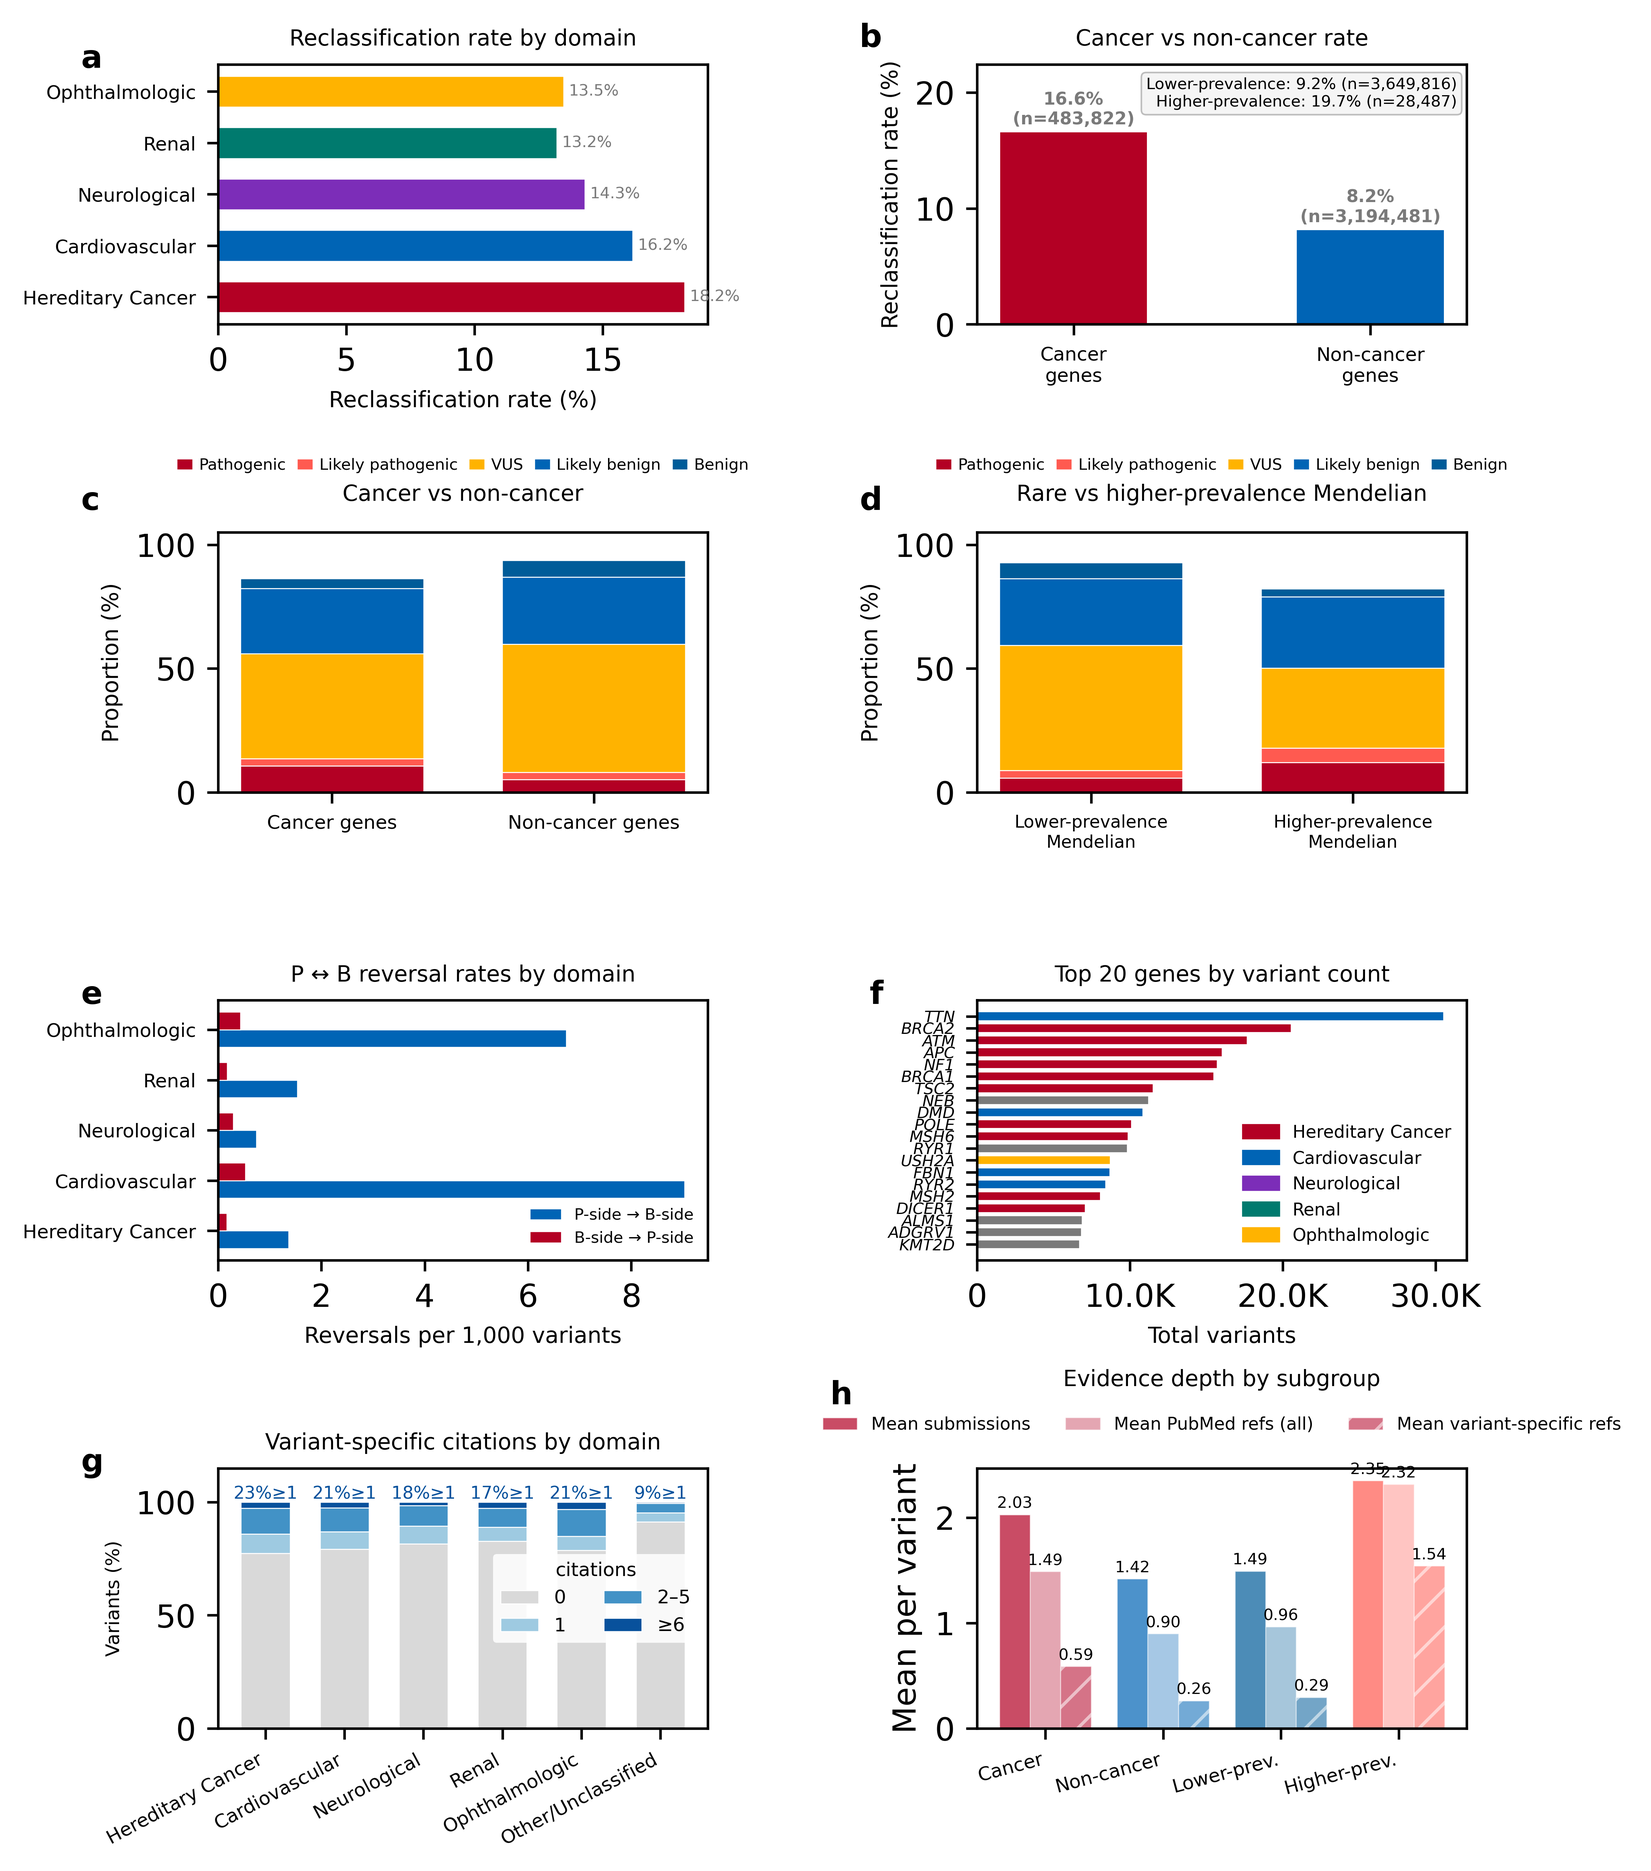
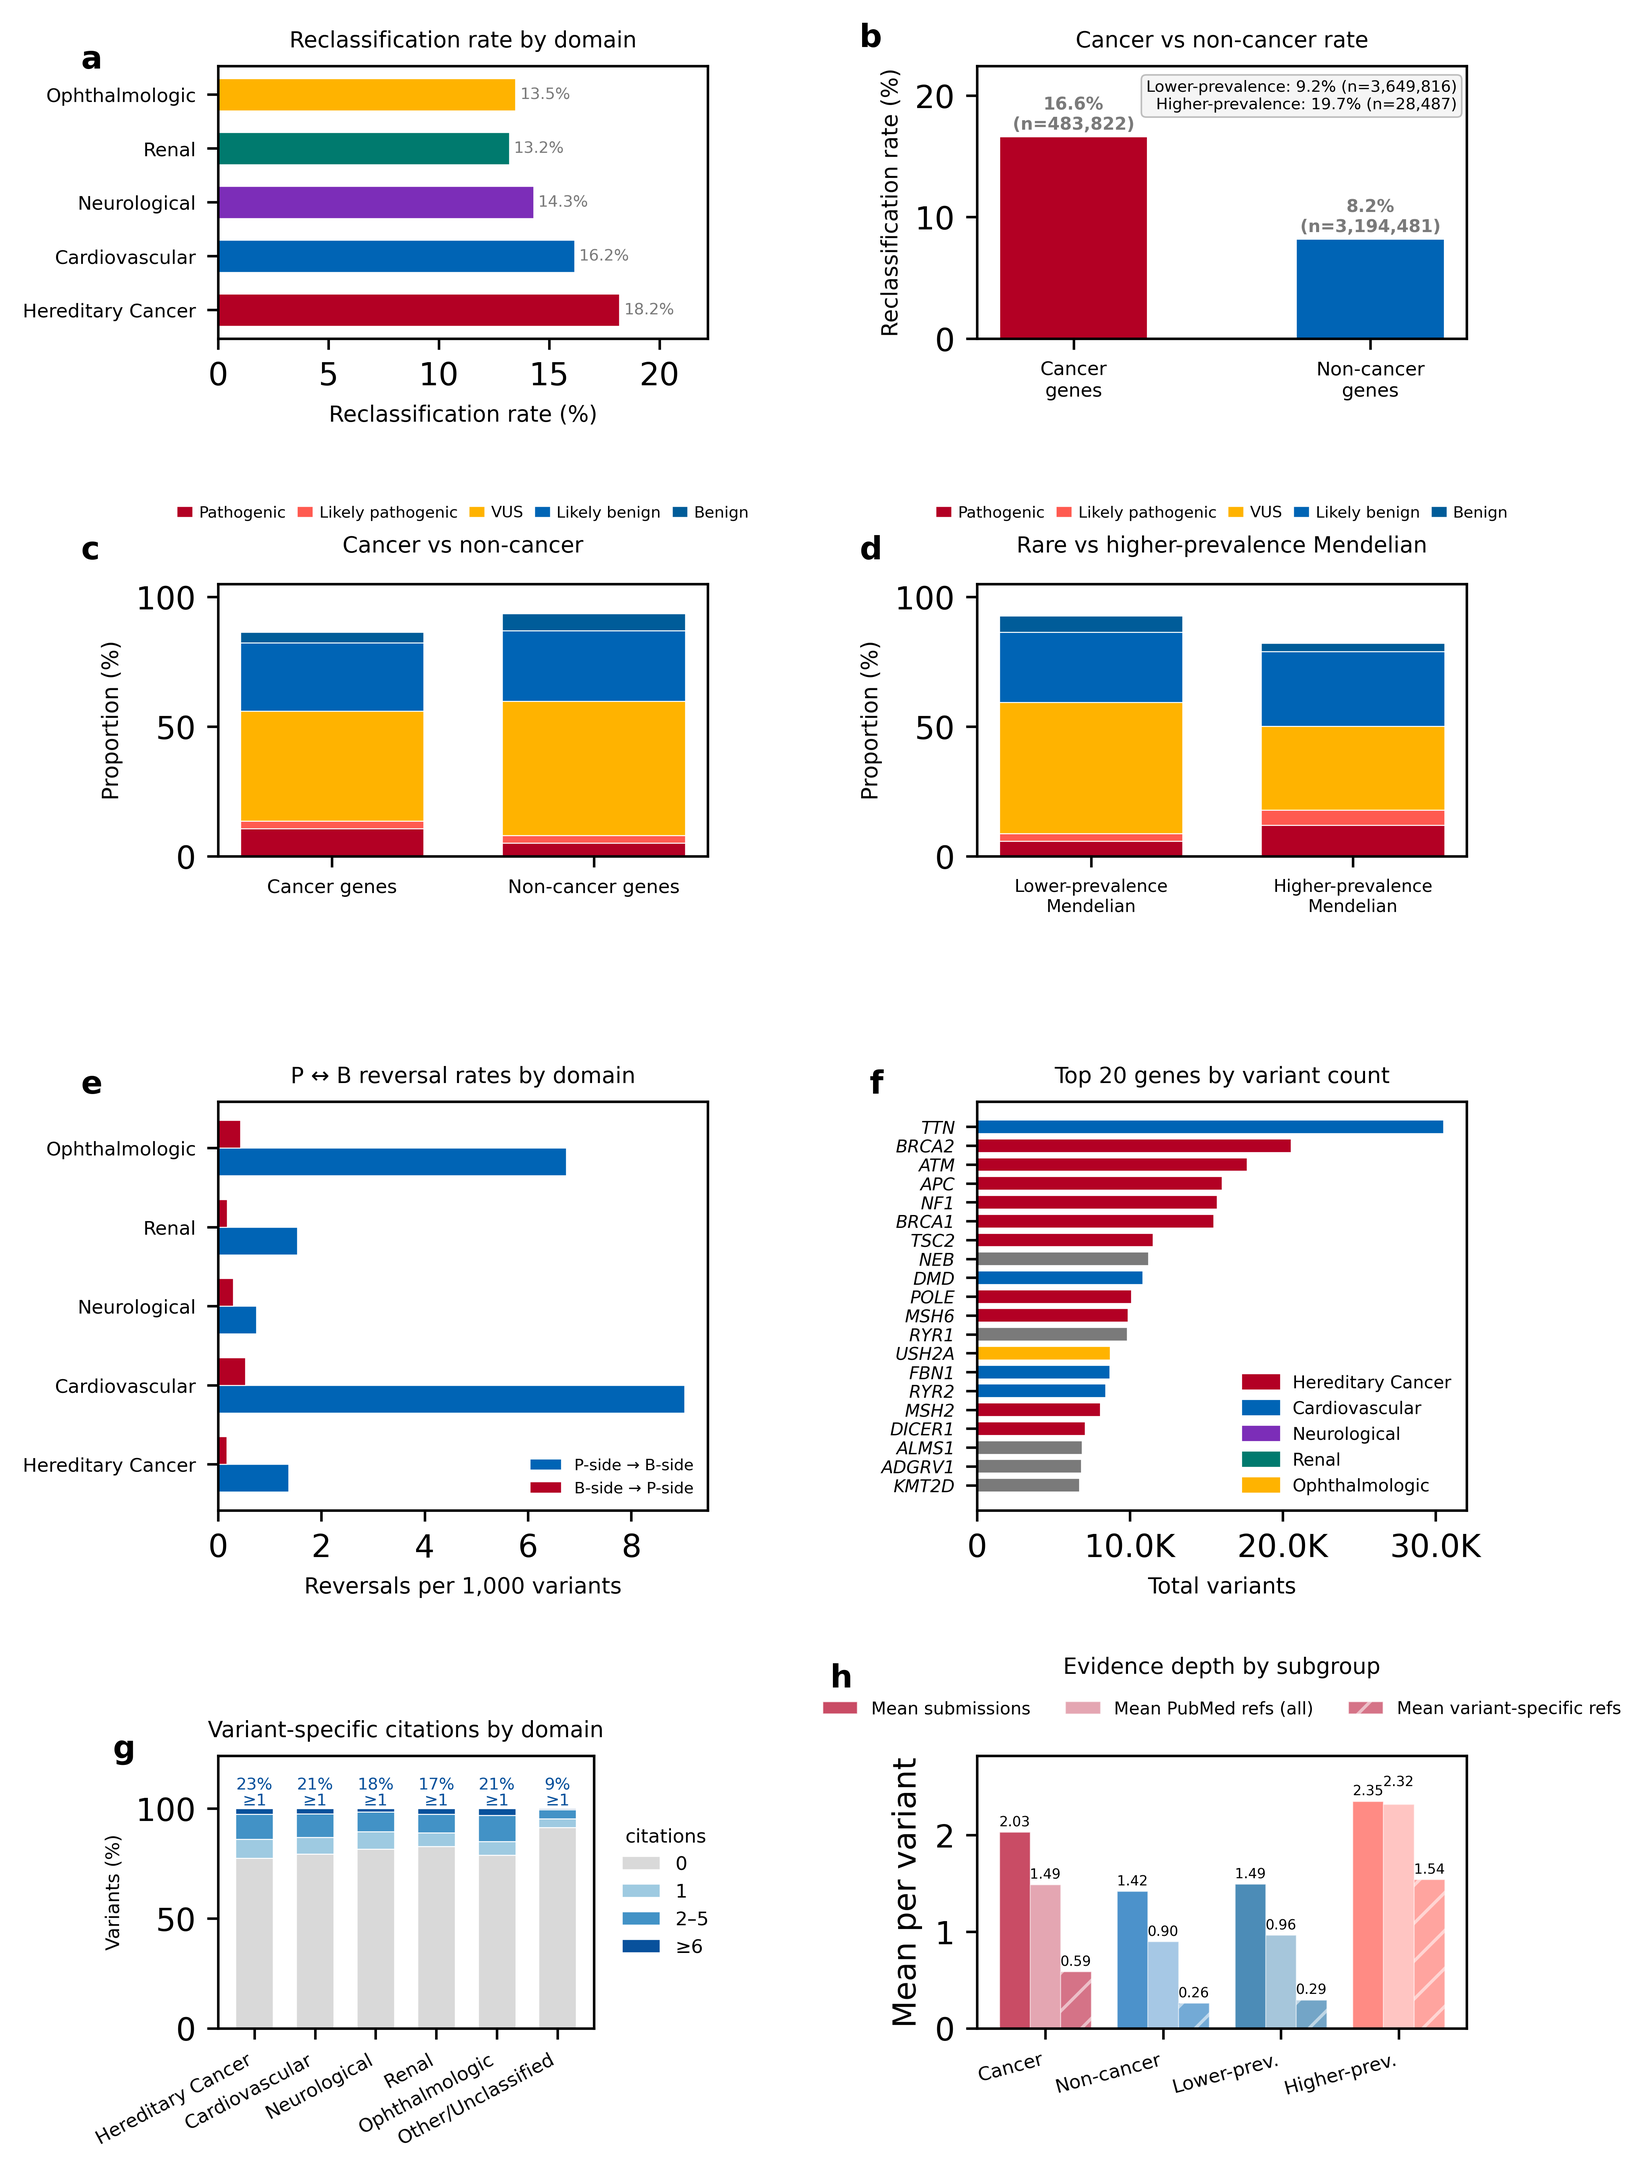
v1.1.1: final figure layout (Figures 4, 6, 9, 11, 13; Additional file 1 Fig. S3); analyses and data unchanged

diff --git a/scripts/clinvar_visualizations.py b/scripts/clinvar_visualizations.py
@@ -899,7 +899,7 @@ def figure4(summary_agg, stats, out):
     ax.set_yticks(y_pos)
     ax.set_yticklabels(fields, fontsize=6)
     ax.set_xlabel("Completeness (%)")
-    ax.set_xlim(0, 105)
+    ax.set_xlim(0, 124)
     ax.set_title("Field-level data completeness")
     for i, v in enumerate(vals):
         ax.text(v + 0.8, i, f"{v:.1f}%", va="center", fontsize=5, color=NAT["grey"])
@@ -923,7 +923,7 @@ def figure4(summary_agg, stats, out):
                edgecolor="white", linewidth=0.3, label="All listed references")
         ax.bar(x + bw / 2, filt_pct, bw, color=NAT["blue"],
                edgecolor="white", linewidth=0.3,
-               label="Variant-specific (method papers excluded)")
+               label="Variant-specific")
         ax.set_xticks(x)
         ax.set_xticklabels(pmid_order, fontsize=6)
         ax.set_xlabel("PubMed citations per variant")
@@ -932,6 +932,8 @@ def figure4(summary_agg, stats, out):
         for xi, pct in zip(x, filt_pct):
             ax.text(xi + bw / 2, pct + 1.0, f"{pct:.1f}", ha="center",
                     fontsize=5.0, color=NAT["blue"])
+        ax.set_ylim(0, max(max(pmid_pct), max(filt_pct)) * 1.17)
+        ax.legend(fontsize=6.0, frameon=False, loc="upper right")
         ax.legend(fontsize=6.0, frameon=False, loc="upper right")
     else:
         bar_cols_pmid = [NAT["grey"]] + [NAT["blue"]] * 5
@@ -944,7 +946,7 @@ def figure4(summary_agg, stats, out):
         ax.set_title("Literature evidence distribution")
         for i, (v, pct) in enumerate(zip(pmid_vals, pmid_pct)):
             ax.text(i, pct + 0.5, fmt(v), ha="center", fontsize=4.5, color=NAT["grey"])
-    panel_label(ax, "b")
+    panel_label(ax, "b", x=-0.22, y=1.13)
 
     # ── (c) New variants per year ────────────────────────────────────
     ax = axes[1, 0]
@@ -963,7 +965,7 @@ def figure4(summary_agg, stats, out):
     ax.set_ylabel("New variants (millions)")
     ax.set_xlabel("Year of first ClinVar appearance")
     ax.set_title("Variant accession timeline")
-    panel_label(ax, "c")
+    panel_label(ax, "c", x=-0.22, y=1.17)
 
     # ── (d) dbSNP coverage by entry cohort ───────────────────────────
     ax = axes[1, 1]
@@ -981,11 +983,11 @@ def figure4(summary_agg, stats, out):
            edgecolor="white", linewidth=0.3)
     ax.set_xticks(range(len(years)))
     ax.set_xticklabels(years, rotation=45, ha="right", fontsize=6.5)
-    ax.set_ylabel("Variants with dbSNP ID (%)")
+    ax.set_ylabel("Variants with dbSNP ID (%)", fontsize=8)
     ax.set_xlabel("Year of first ClinVar appearance")
     ax.set_title("dbSNP cross-reference coverage")
     ax.set_ylim(0, 105)
-    panel_label(ax, "d")
+    panel_label(ax, "d", x=-0.22, y=1.17)
 
     _save(fig, out, "figure4_evidence_linkage_completeness")
 
@@ -1022,8 +1024,8 @@ def figure5(xml_data, out, hist_agg=None):
         ax.axvline(vcv_start, color=NAT["grey"], linestyle="--", linewidth=0.5, alpha=0.6)
         ax.set_ylim(ylim)
 
-    fig = plt.figure(figsize=(7.08, 7.5))
-    gs = GridSpec(3, 2, figure=fig, hspace=0.55, wspace=0.42)
+    fig = plt.figure(figsize=(7.08, 8.4))
+    gs = GridSpec(3, 2, figure=fig, hspace=0.78, wspace=0.42)
 
     # ── (a) Format era timeline + variant count ───────────────────────
     ax = fig.add_subplot(gs[0, 0])
@@ -1045,10 +1047,11 @@ def figure5(xml_data, out, hist_agg=None):
 
     ax.axvline(vcv_start, color="black", linestyle=":", linewidth=0.5, alpha=0.5)
     ylim = ax.get_ylim()
-    ax.text(2016.0, ylim[1] * 0.90, "RCV\n(submission-\ncentric)",
-            fontsize=5.5, color=NAT["blue"], ha="center", fontweight="bold")
-    ax.text(2022.5, ylim[1] * 0.90, "VCV\n(variant-\ncentric)",
-            fontsize=5.5, color=NAT["yellow"], ha="center", fontweight="bold")
+    ax.set_ylim(0, ylim[1] * 1.34)
+    ax.text(2016.0, ylim[1] * 1.29, "RCV\n(submission-\ncentric)",
+            fontsize=5.5, color=NAT["blue"], ha="center", va="top", fontweight="bold")
+    ax.text(2022.5, ylim[1] * 1.29, "VCV\n(variant-\ncentric)",
+            fontsize=5.5, color=NAT["yellow"], ha="center", va="top", fontweight="bold")
 
     legend_patches = [mpatches.Patch(color=NAT["blue"], label="RCV format"),
                       mpatches.Patch(color=NAT["yellow"], label="VCV format")]
@@ -1169,7 +1172,7 @@ def figure5(xml_data, out, hist_agg=None):
                         ha="right", fontsize=4.5)
     ax.set_xlabel("Release", fontsize=6)
     ax.set_title("Field availability (grouped)")
-    panel_label(ax, "c")
+    panel_label(ax, "c", x=-0.40, y=1.12)
 
     # ── (d) Element lifecycle ─────────────────────────────────────────
     ax = fig.add_subplot(gs[1, 1])
@@ -1186,8 +1189,8 @@ def figure5(xml_data, out, hist_agg=None):
     ax.set_ylabel("Element count")
     ax.set_xlabel("Year")
     ax.set_title("Element lifecycle")
-    ax.legend(fontsize=5, loc="lower left",
-              frameon=True, facecolor="white", edgecolor="none", framealpha=0.85)
+    ax.legend(fontsize=5.5, loc="upper center", bbox_to_anchor=(0.5, -0.24), ncol=2,
+              frameon=False)
     ax.xaxis.set_major_locator(mticker.MultipleLocator(2))
 
     ax2 = ax.twinx()
@@ -1221,8 +1224,8 @@ def figure5(xml_data, out, hist_agg=None):
         ax.set_ylabel("Elements changed")
         ax.set_xlabel("Year")
         ax.set_title("Schema change taxonomy")
-        ax.legend(fontsize=4.5, loc="lower left",
-                  frameon=True, facecolor="white", edgecolor="none", framealpha=0.85)
+        ax.legend(fontsize=5.5, loc="upper center", bbox_to_anchor=(0.5, -0.24), ncol=3,
+                  frameon=False)
         ax.xaxis.set_major_locator(mticker.MultipleLocator(2))
 
         # Cumulative overlay
@@ -1285,7 +1288,7 @@ def figure6(summary_agg, stats, out):
     ax.set_xticklabels(acmg_order, fontsize=7)
     ax.set_xlabel("ACMG evidence codes per variant")
     ax.set_ylabel("Variants (%)")
-    ax.set_title("ACMG/AMP evidence utilisation")
+    ax.set_title("ACMG/AMP evidence utilization")
     for i, (v, pct) in enumerate(zip(acmg_vals, acmg_pct)):
         ax.text(i, pct + 0.3, fmt(v), ha="center", fontsize=6, color=NAT["grey"])
     panel_label(ax, "a")
@@ -1812,8 +1815,8 @@ def figure10_disease_domain(domain_data, out):
                     "Renal", "Ophthalmologic", "Other/Unclassified"]
     domains_present = [d for d in domain_order if d in by_domain]
 
-    fig = plt.figure(figsize=(7.08, 9.5))
-    gs = GridSpec(4, 2, figure=fig, hspace=0.80, wspace=0.55)
+    fig = plt.figure(figsize=(7.08, 11.2))
+    gs = GridSpec(4, 2, figure=fig, hspace=0.80, wspace=0.55, height_ratios=[1, 1, 1.5, 1])
 
     # ── (a) Reclassification rate by domain + cancer vs non-cancer ────
     ax = fig.add_subplot(gs[0, 0])
@@ -1830,6 +1833,7 @@ def figure10_disease_domain(domain_data, out):
     ax.set_title("Reclassification rate by domain", fontsize=7)
     for i, v in enumerate(d_rates):
         ax.text(v + 0.2, i, f"{v:.1f}%", va="center", fontsize=5, color=NAT["grey"])
+    ax.set_xlim(0, max(d_rates) * 1.22)
     panel_label(ax, "a", x=-0.28)
 
     # ── (b) Cancer vs non-cancer reclassification rate comparison ─────
@@ -1973,7 +1977,7 @@ def figure10_disease_domain(domain_data, out):
         ax.barh(y_pos, g_vals, color=g_cols, height=0.7, edgecolor="white",
                 linewidth=0.2)
         ax.set_yticks(y_pos)
-        ax.set_yticklabels(g_labels, fontsize=5, fontstyle="italic")
+        ax.set_yticklabels(g_labels, fontsize=5.5, fontstyle="italic")
         ax.set_xlabel("Total variants", fontsize=7)
         ax.set_title("Top 20 genes by variant count", fontsize=7)
         ax.xaxis.set_major_formatter(mticker.FuncFormatter(lambda v, _: fmt(v)))
@@ -1988,7 +1992,8 @@ def figure10_disease_domain(domain_data, out):
     # whisker (5th=0 → 95th) + median line + mean diamond, on a symlog axis so the
     # skew is visible. Uses injected cit_* quantiles + cit_mean; falls back to mean
     # bars if the quantiles are absent.
-    ax = fig.add_subplot(gs[3, 0])
+    _g_split = gs[3, 0].subgridspec(1, 2, width_ratios=[3.6, 1.0], wspace=0.04)
+    ax = fig.add_subplot(_g_split[0, 0])
     _order_g = ["Hereditary Cancer", "Cardiovascular", "Neurological", "Renal",
                 "Ophthalmologic", "Other/Unclassified"]
     d_labels_g = [d for d in _order_g if d in by_domain] or list(by_domain.keys())
@@ -2012,16 +2017,16 @@ def figure10_disease_domain(domain_data, out):
             bottoms += hts
         for i, d in enumerate(d_labels_g):
             ge1 = 100.0 - by_domain[d]["cit_classes"].get("0", 0.0)
-            ax.text(i, 101.5, f"{ge1:.0f}%≥1", ha="center", fontsize=5.5,
+            ax.text(i, 101.5, f"{ge1:.0f}%\n≥1", ha="center", fontsize=5.2, linespacing=1.0,
                     color="#08519c")
-        ax.set_ylim(0, 115)
+        ax.set_ylim(0, 124)
         ax.set_xlim(-0.6, len(d_labels_g) - 0.4)
         ax.set_xticks(x_pos)
         ax.set_xticklabels(d_labels_g, fontsize=6.0, rotation=28, ha="right")
         ax.set_ylabel("Variants (%)", fontsize=6)
         ax.set_title("Variant-specific citations by domain", fontsize=7)
-        ax.legend(title="citations", title_fontsize=6, fontsize=6, ncol=2,
-                  loc="center right", frameon=True, facecolor="white",
+        ax.legend(title="citations", title_fontsize=6, fontsize=6, ncol=1,
+                  loc="center left", bbox_to_anchor=(1.03, 0.5), frameon=False, facecolor="white",
                   edgecolor="none", framealpha=0.85)
     elif has_dist:
         BOX, MED, MEAN, WHIS = "#AEC7E8", "#F08C1E", "#C0392B", "#666666"
@@ -2091,11 +2096,12 @@ def figure10_disease_domain(domain_data, out):
             ax.set_title("Evidence depth by subgroup", fontsize=7, pad=26)
             for i, (s, p, f) in enumerate(zip(subs_vals, pmid_vals, filt_vals)):
                 ax.text(i - bar_w, s + 0.03, f"{s:.2f}", ha="center",
-                        fontsize=5.0, va="bottom")
-                ax.text(i, p + 0.03, f"{p:.2f}", ha="center",
-                        fontsize=5.0, va="bottom")
+                        fontsize=4.4, va="bottom")
+                ax.text(i, p + (0.16 if abs(p - s) < 0.2 else 0.03), f"{p:.2f}", ha="center",
+                        fontsize=4.4, va="bottom")
                 ax.text(i + bar_w, f + 0.03, f"{f:.2f}", ha="center",
-                        fontsize=5.0, va="bottom")
+                        fontsize=4.4, va="bottom")
+            ax.set_ylim(0, max(max(subs_vals), max(pmid_vals), max(filt_vals)) * 1.2)
             ax.legend(loc="upper center", bbox_to_anchor=(0.5, 1.26),
                       ncol=3, fontsize=5.5, frameon=False)
         else:
@@ -2201,7 +2207,8 @@ def figure11_reclassification_drivers(driver_data, out):
         ax.text(0, 0, f"{total_events:,}\nevents", ha="center", va="center",
                 fontsize=7, fontweight="bold", color=NAT["grey"])
     ax.set_title("Reclassification mechanism breakdown", fontsize=9, pad=14)
-    panel_label(ax, "a", x=-0.05, y=1.18)
+    _cell = ax.get_subplotspec().get_position(fig)
+    fig.text(_cell.x0 - 0.045, _cell.y1 + 0.035, "a", fontsize=10, fontweight="bold", va="top", ha="left")
 
     # ── (b) Mechanism breakdown by era (stacked bar) ─────────────────
     ax = axes[0, 1]
@@ -2261,12 +2268,16 @@ def figure11_reclassification_drivers(driver_data, out):
         ax.set_ylim(0, 100)
         ax.set_ylabel("Proportion (%)", fontsize=7)
         ax.set_xlabel("Year", fontsize=7)
-        ax.set_title("Reclassification mechanism over time", fontsize=9, pad=14)
+        ax.set_title("Reclassification mechanism over time", fontsize=9, pad=26)
         ax.xaxis.set_major_locator(mticker.MultipleLocator(2))
         ax.axvline(x=date_to_float("2020-01"), color="black", linestyle="--",
-                   linewidth=0.6, alpha=0.5)
-        ax.text(date_to_float("2020-01"), 95, "RCV\u2192VCV", fontsize=5.5,
-                ha="left", va="top", style="italic", alpha=0.6)
+                   linewidth=1.2, alpha=0.95, zorder=6)
+        ax.annotate("RCV\u2192VCV transition", xy=(date_to_float("2020-01"), 100),
+                    xytext=(date_to_float("2020-01") - 3.4, 104), textcoords="data",
+                    annotation_clip=False, fontsize=6.5, fontweight="bold", color="black",
+                    ha="center", va="bottom",
+                    arrowprops=dict(arrowstyle="-|>", color="black", lw=1.0,
+                                    connectionstyle="arc3,rad=-0.2"))
         ax.legend(fontsize=4.5, loc="upper center", bbox_to_anchor=(0.5, -0.28),
                   ncol=4, frameon=False, columnspacing=0.8, handletextpad=0.3)
     panel_label(ax, "c", x=-0.14, y=1.18)

diff --git a/revision_analyses/r4_fig4.py b/revision_analyses/r4_fig4.py
@@ -1,0 +1,13 @@
+#!/usr/bin/env python
+"""R4: manuscript Figure 4 (XML structural evolution), rendered with the module's house style
+(as the original was) after the panel a/d/e layout fixes."""
+import json, sys
+from pathlib import Path
+REV = Path("/Users/danielliang/Library/CloudStorage/Dropbox/ClinVar_GenomMedicine/revision_analyses")
+EXT = REV / "external_dependencies" / "ClinVar Research Project"
+sys.path.insert(0, str(EXT / "scripts"))
+import clinvar_visualizations as V
+V.set_nature_style()
+xml = json.load(open(EXT / "data" / "xml_structure_analysis.json"))
+hist = json.load(open("/Users/danielliang/Downloads/ClinVar_Research_Project/figures/.cache/history_agg.json"))
+V.figure5(xml, REV / "figures" / "r4", hist)

diff --git a/README.md b/README.md
@@ -80,6 +80,7 @@ python revision_analyses/31_its_r3.py                         # flow-based inter
 python revision_analyses/17_rebuild_figure5_native.py         # Figure 5
 python revision_analyses/r4_figures.py                        # Figures 6, 8, 9, 11-15 and Additional file 1 Fig. S3 (final)
 python revision_analyses/r4_suppfig_review_status.py         # Additional file 1 Fig. S4
+python revision_analyses/r4_fig4.py                           # Figure 4
 ```
 
 `revision_analyses/outputs/mechanism_validation_labels_two_reviewers.csv` holds the per-event labels
